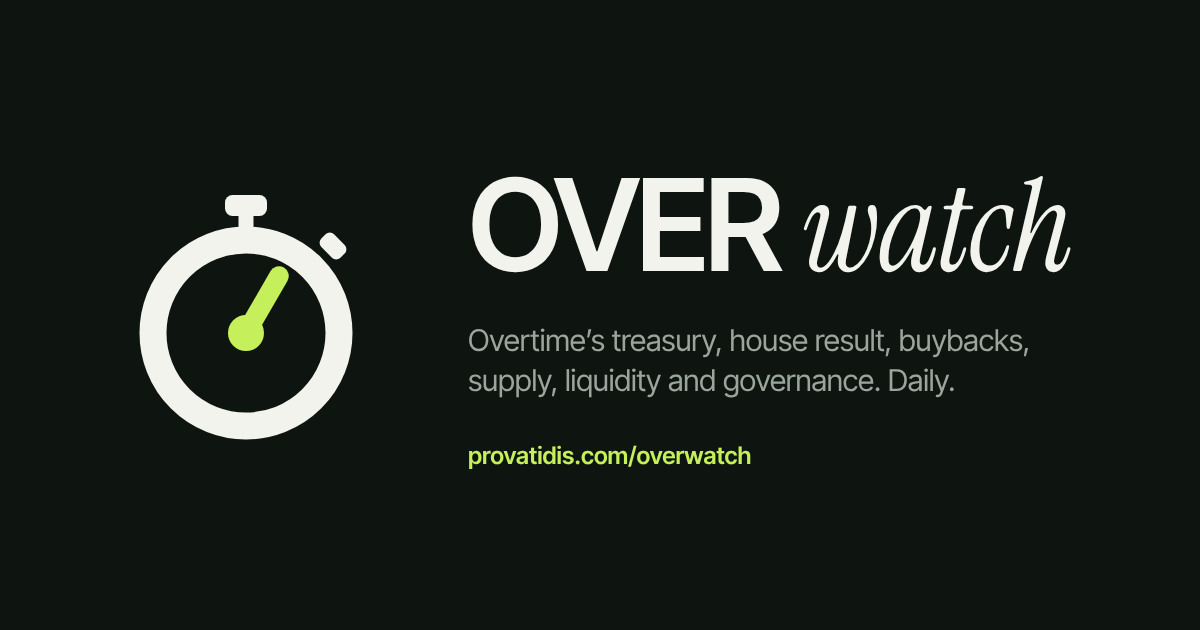
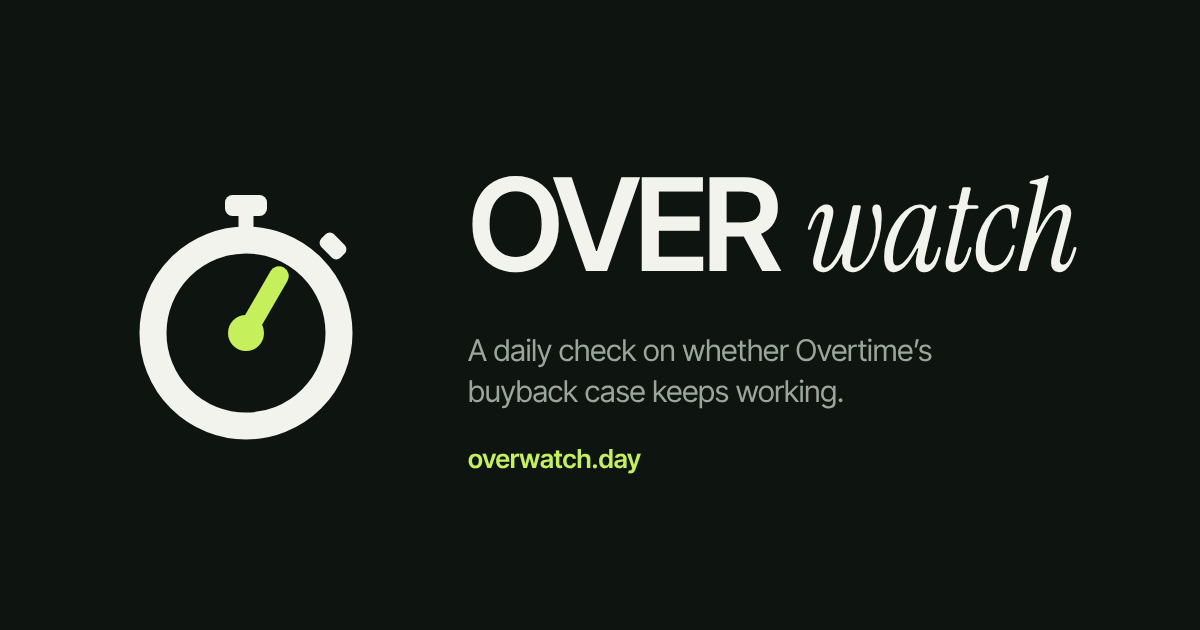
Show overwatch.day on the link-preview card
The card image still had provatidis.com/overwatch printed on it, so
shares on Telegram and elsewhere showed the old address. Rebuilt it in
the same layout with overwatch.day and the page's one-line description,
and gave the image a new address (?v=2) so apps don't reuse the cached
picture.

Claude-Session: https://claude.ai/code/session_01Q7D4zaBcsyPQbkzYD3Xe5a

diff --git a/index.html b/index.html
@@ -27,10 +27,10 @@
     <meta property="og:title" content="OVER watch">
     <meta property="og:description" content="Overtime’s treasury is the house on its onchain sportsbook, and part of what it wins buys back OVER. A daily check on whether that keeps working.">
     <meta property="og:url" content="https://overwatch.day/">
-    <meta property="og:image" content="https://overwatch.day/assets/social-card.png">
+    <meta property="og:image" content="https://overwatch.day/assets/social-card.png?v=2">
     <meta property="og:image:width" content="1200">
     <meta property="og:image:height" content="630">
-    <meta property="og:image:alt" content="OVER watch: a stopwatch mark and the name, on a dark background.">
+    <meta property="og:image:alt" content="OVER watch: a stopwatch mark and the name, on a dark background, with the address overwatch.day.">
     <meta name="twitter:card" content="summary_large_image">
     <meta name="twitter:creator" content="@provatidis">
     <link rel="stylesheet" href="./styles.css">
